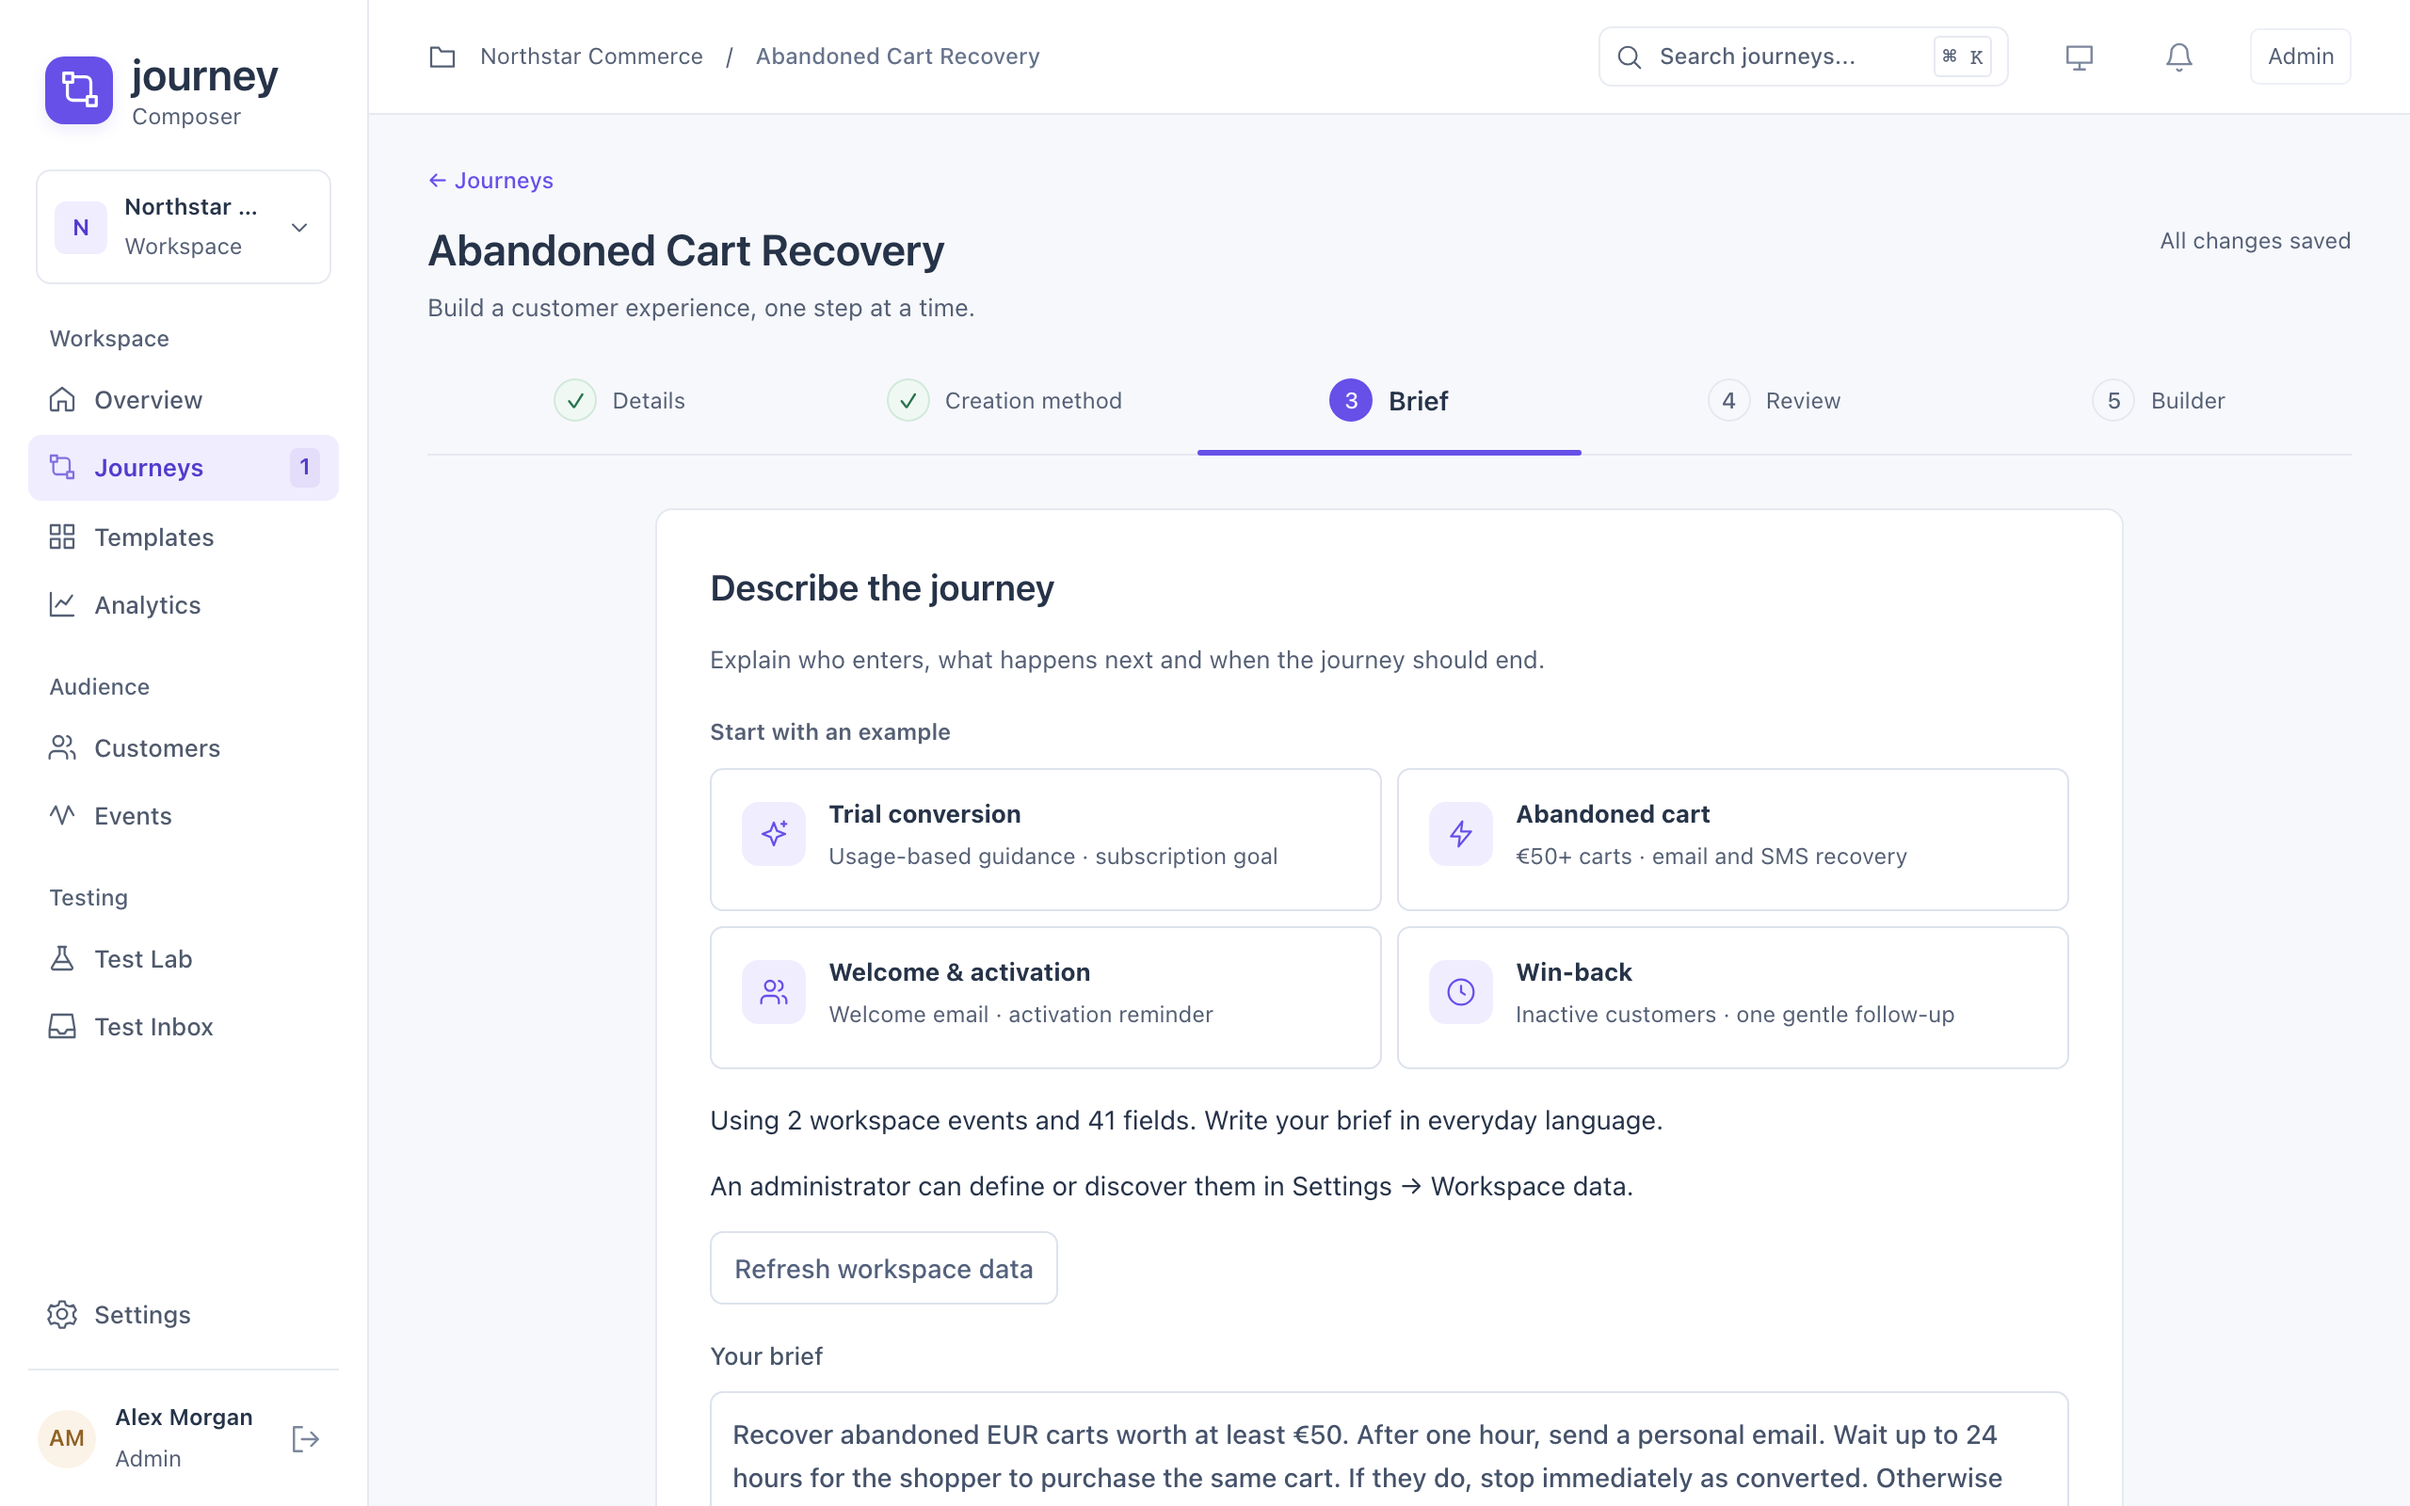
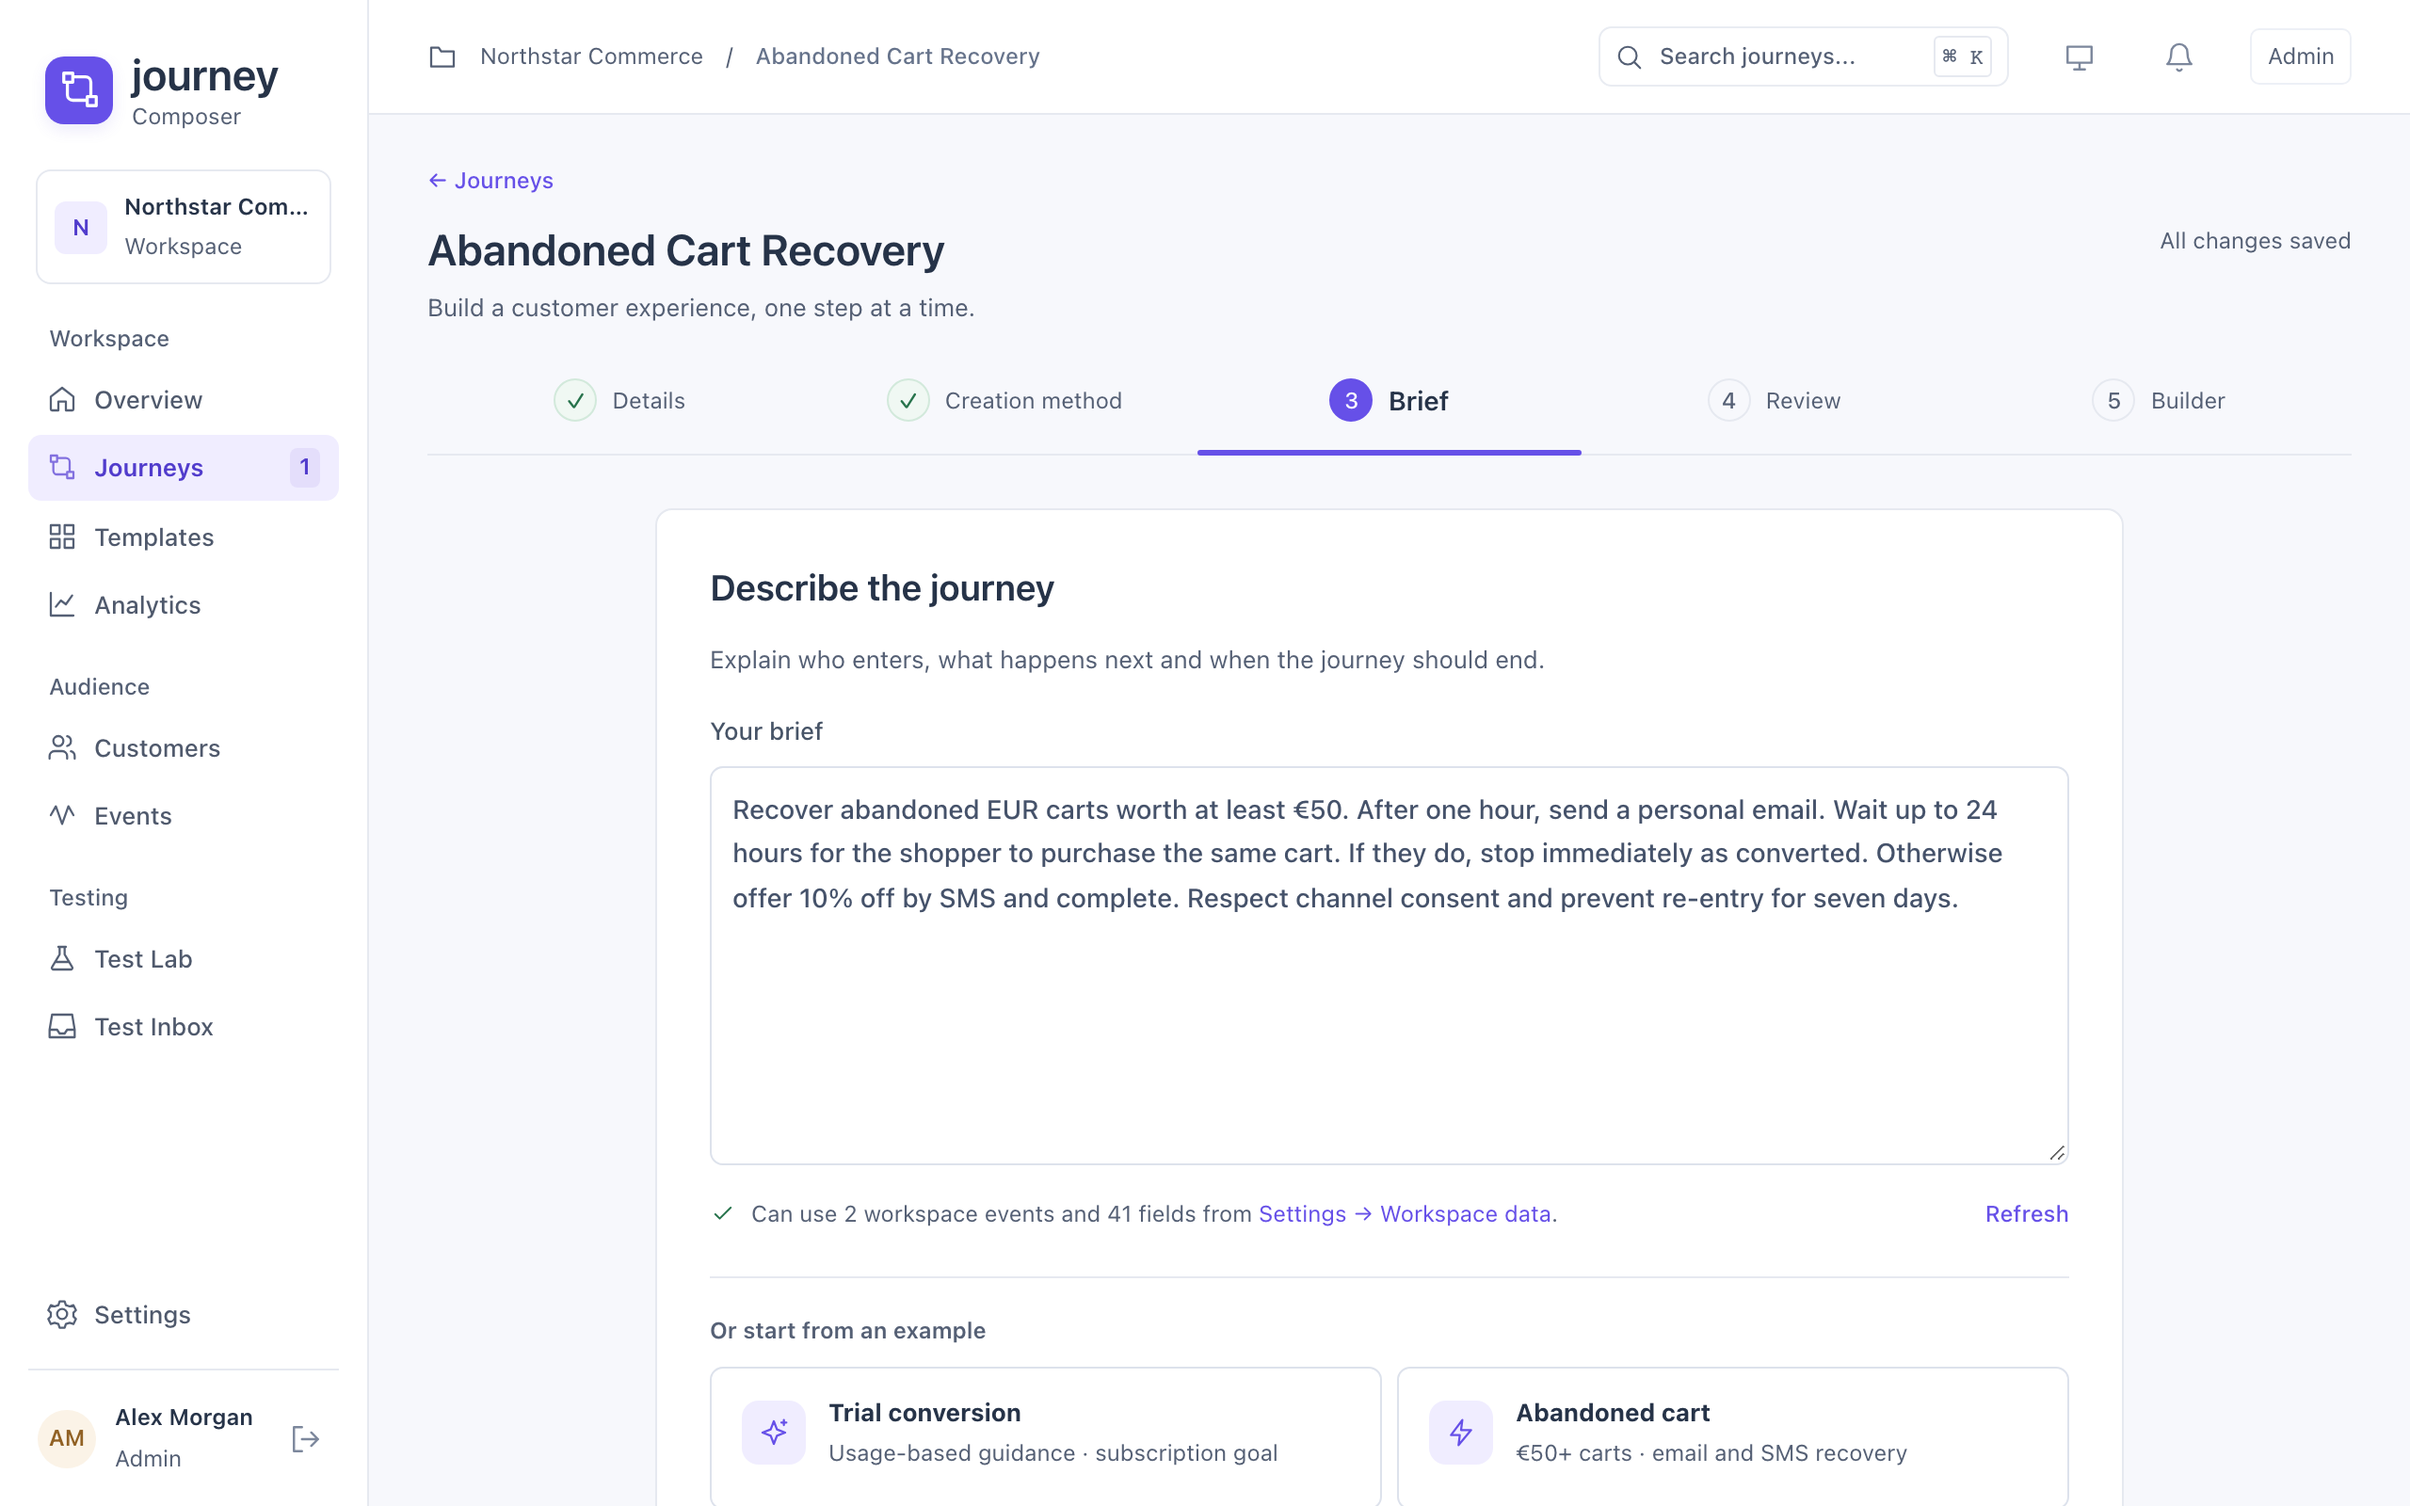
fix(web): put the brief first on the creation brief step
Show the brief box before the workspace data line and the example cards, and recapture the README brief screenshot with the new layout.

diff --git a/apps/web/src/components/JourneyCreation.vue b/apps/web/src/components/JourneyCreation.vue
@@ -485,41 +485,8 @@ async function back() {
     <section v-else-if="state.step === 'brief'" class="creation-surface brief-page">
       <h2>Describe the journey</h2>
       <p>Explain who enters, what happens next and when the journey should end.</p>
-      <section class="brief-examples" aria-label="Example briefs">
-        <span>Start with an example</span>
-        <div>
-          <button
-            v-for="(sample, index) in briefExamples"
-            :key="sample.title"
-            type="button"
-            :disabled="readonly"
-            @click="example(index)"
-          >
-            <span class="brief-example-icon" aria-hidden="true"
-              ><AppIcon :name="sample.icon" :size="16" /></span
-            ><span class="brief-example-text"
-              ><strong>{{ sample.title }}</strong
-              ><small>{{ sample.description }}</small></span
-            >
-          </button>
-        </div>
-      </section>
-      <div class="brief-vocabulary">
-        <p v-if="catalogEvents">
-          Using {{ catalogEvents }} workspace events and {{ catalogFields }} fields. Write your
-          brief in everyday language.
-        </p>
-        <p v-else class="warning-message">
-          Your workspace needs event definitions before AI can connect a brief to real data.
-        </p>
-        <p class="help-text">
-          An administrator can define or discover them in
-          <a href="/settings" target="_blank" rel="noopener">Settings → Workspace data</a>.
-        </p>
-        <button type="button" @click="refreshVocabulary">Refresh workspace data</button>
-      </div>
       <form @submit.prevent="compose">
-        <label
+        <label class="brief-field"
           >Your brief<textarea
             v-model="state.brief"
             rows="8"
@@ -530,6 +497,39 @@ async function back() {
             @blur="persist().catch(() => {})"
           />
         </label>
+        <!-- What the brief can refer to, as one quiet line under the field it applies to. -->
+        <div class="brief-vocabulary" :class="{ missing: !catalogEvents }">
+          <AppIcon v-if="catalogEvents" name="check" :size="14" aria-hidden="true" />
+          <p v-if="catalogEvents">
+            Can use {{ catalogEvents }} workspace events and {{ catalogFields }} fields from
+            <a href="/settings" target="_blank" rel="noopener">Settings → Workspace data</a>.
+          </p>
+          <p v-else>
+            Add event definitions in
+            <a href="/settings" target="_blank" rel="noopener">Settings → Workspace data</a>
+            before AI can connect a brief to real data.
+          </p>
+          <button type="button" class="link-button" @click="refreshVocabulary">Refresh</button>
+        </div>
+        <section class="brief-examples" aria-label="Example briefs">
+          <span>Or start from an example</span>
+          <div>
+            <button
+              v-for="(sample, index) in briefExamples"
+              :key="sample.title"
+              type="button"
+              :disabled="readonly"
+              @click="example(index)"
+            >
+              <span class="brief-example-icon" aria-hidden="true"
+                ><AppIcon :name="sample.icon" :size="16" /></span
+              ><span class="brief-example-text"
+                ><strong>{{ sample.title }}</strong
+                ><small>{{ sample.description }}</small></span
+              >
+            </button>
+          </div>
+        </section>
         <details class="composer-options">
           <summary>AI options</summary>
           <SegmentedControl

diff --git a/apps/web/src/style.css b/apps/web/src/style.css
@@ -4710,8 +4710,44 @@ td {
     padding: 14px;
   }
 }
+.brief-field textarea {
+  min-height: 168px;
+}
+/* One quiet line under the brief: what it can refer to, and where that comes from. */
+.brief-vocabulary {
+  display: flex;
+  flex-wrap: wrap;
+  align-items: center;
+  gap: 4px 8px;
+  margin: -4px 0 0;
+  color: var(--muted);
+  font-size: 12px;
+  line-height: 1.5;
+}
+.brief-vocabulary > svg {
+  flex-shrink: 0;
+  color: var(--green-50-text);
+}
+.brief-vocabulary p {
+  flex: 1 1 260px;
+  margin: 0;
+}
+.brief-vocabulary.missing {
+  padding: 8px 10px;
+  border-radius: var(--radius);
+  background: var(--amber-97);
+  color: var(--amber-51-text);
+}
+.brief-vocabulary a {
+  color: var(--accent-text);
+}
+.brief-vocabulary .link-button {
+  font-size: 12px;
+}
 .brief-examples {
-  margin: 16px 0;
+  margin: 20px 0 16px;
+  padding-top: 16px;
+  border-top: 1px solid var(--border);
 }
 .brief-examples > span {
   font-size: 12px;

diff --git a/docs/IMPLEMENTATION.md b/docs/IMPLEMENTATION.md
@@ -290,6 +290,16 @@ Not covered:
 
 - The check's live cost was measured afterwards on the ten reviewed briefs: [live-factcheck-2026-11-15](reports/live-factcheck-2026-11-15.md). It refused nothing and caused no repair. How often it catches an invented fact live is not measured.
 
+## Brief first on the creation brief step — 2026-11-17
+
+- On the Brief step, the workspace data summary and the example cards sat above the brief box, so the brief itself was easy to miss. The step now reads: the "Your brief" box, one line under it saying how many workspace events and fields the AI can use (with a Refresh link, or an amber note when no events are defined), then "Or start from an example".
+- `docs/images/creation/brief.png` was recaptured with the new layout. It was not taken with `npm run screenshots:creation`, which would add a draft journey to the Northstar workspace. A one-off Playwright script showed an existing Northstar journey as a brief-step draft with the scripted brief, by faking the journey, composition and AI settings responses in the browser. It blocked every non-sign-in write (0 attempted) and was deleted after use. The other creation screenshots were not recaptured.
+
+Verified locally:
+
+- The new image checked by eye at 1280×800, device scale 2.
+- `make fmt-check`, `make lint`, `make typecheck`, `make test`, `git diff --check`, and the full `npx playwright test` (104 passed) with the layout change.
+
 ## Screenshot refresh after the analytics changes — 2026-11-17
 
 - The 13 product screenshots were recaptured with `npm run screenshots:product`.

diff --git a/README.md b/README.md
@@ -34,7 +34,7 @@ The screenshots come from the running application with the Northstar Commerce de
 
 Choose **New journey → Create with AI** and write what should happen in everyday language, or start from an example. The page lists the events and customer fields the workspace has, so the brief can use their names.
 
-![Brief page: four example journeys, the workspace's events and fields, and the abandoned-cart brief](docs/images/creation/brief.png)
+![Brief page: the abandoned-cart brief, the workspace events and fields it can use, and example journeys](docs/images/creation/brief.png)
 
 Before the model is called, you confirm what the journey must do in each situation: how many emails and SMS, and how it ends. These expectations are checked against every proposal.
 
